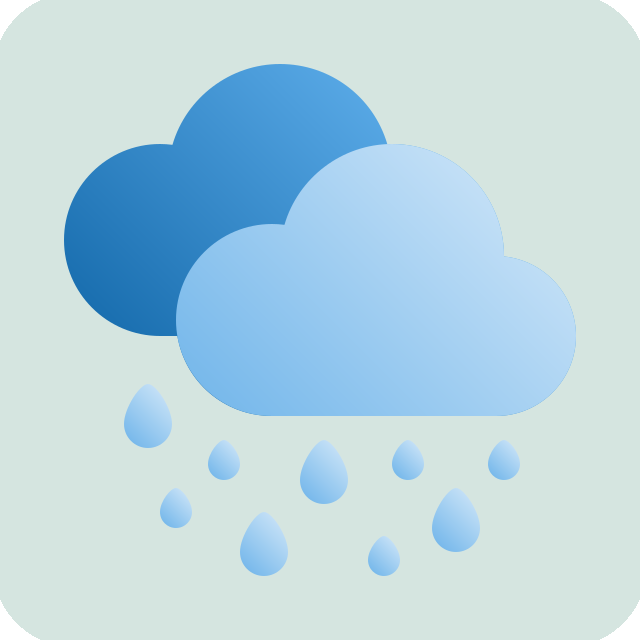
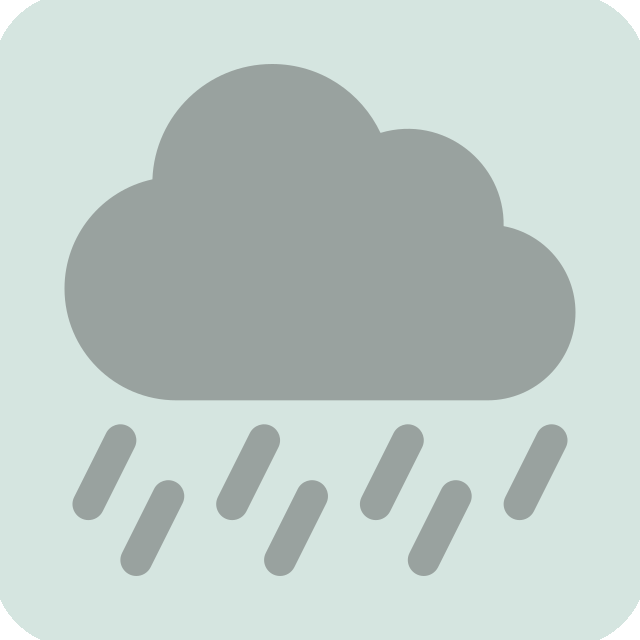
weather

diff --git a/homepage/flutter_bootstrap.js b/homepage/flutter_bootstrap.js
@@ -37,6 +37,6 @@ _flutter.buildConfig = {"engineRevision":"3452d735bd38224ef2db85ca763d862d6326b1
 
 _flutter.loader.load({
   serviceWorkerSettings: {
-    serviceWorkerVersion: "3872031228" /* Flutter's service worker is deprecated and will be removed in a future Flutter release. */
+    serviceWorkerVersion: "3507655157" /* Flutter's service worker is deprecated and will be removed in a future Flutter release. */
   }
 });
